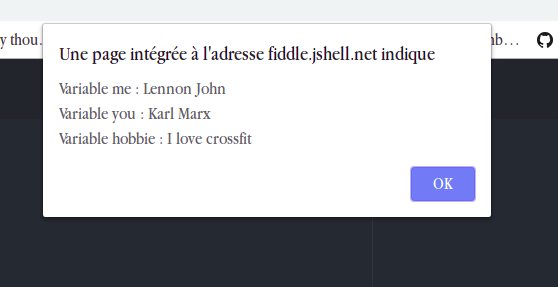
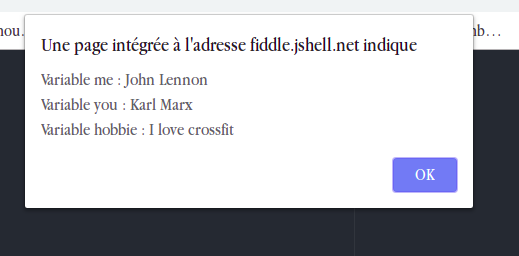
hightlight variable on code

Changed region(s): [[0.0, 0.0625, 1.0, 0.8125], [0.0617, 0.0312, 0.894, 0.0938]]

diff --git a/_sass/_variables.scss b/_sass/_variables.scss
@@ -36,6 +36,7 @@ $header-bg: white !default;
 $header-fg: #2B2B2B !default;
 
 // Colors
+$white: #fff !default;
 $blue: #0076df !default;
 $red: #f95020 !default;
 $green: #459069 !default;
@@ -99,13 +100,13 @@ $form-field-padding-x: .5rem;
 $pre-border-radius: 0;
 $pre-background-color: #fafafa;
 $hljs-comment: $mid-gray;
-$hljs-keyword: $dark-blue;
-$hljs-name: $dark-gray;
-$hljs-number: $dark-green;
-$hljs-string: $red;
+$hljs-keyword: $green;
+$hljs-name: $purple;
+$hljs-number: $blue;
+$hljs-string: $white;
 $hljs-title: $red;
 $hljs-type: $dark-blue;
-$hljs-tag: $dark-blue;
+$hljs-tag: $orange;
 $hljs-attribute: $dark-green;
 $hljs-regexp: $dark-green;
 $hljs-symbol: $purple;

diff --git a/_layouts/post.html b/_layouts/post.html
@@ -31,7 +31,10 @@ p .reversefootnote:hover, p .reversefootnote:active, p .reversefootnote:focus {
   box-shadow: none;
 }
 .highlight {
-  background-color: #cccc;
+  background-color: #252525;
+  box-shadow: 0 0 15px rgba(0,0,0,0.3);
+  border-radius: 5px;
+}
 </style>
 <div class="clearfix"></div>
 

diff --git a/_posts/2019-07-04-javascript-2.md b/_posts/2019-07-04-javascript-2.md
@@ -7,22 +7,20 @@ categories: Developper skills
 mathjax: true
 ---
 ![javascript](/images/javascript.jpg)
->Ce tutoriel est accessible à tous et pourra être bénéfique à chacun, que vous n'ayez jamais codé ou si vous ètes un expert, cela va vous permettre de révisé les bases.
+>Dans cette deuxième partie nous allons voir: **La concaténation, la présentation des conditions,les conditions if, if…else, if…else if…else, les opérateurs logiques,l'évaluation / Simplification des conditions,les  onditions ternaires, le switch, les boucles et enfin la découverte des fonctions.**
 
 ##  La concaténation : définition et exemples
 
-Concaténer signifie tout simplement mettre bout à bout deux chaînes de caractères afin d’en former une troisième, nouvelle.
+Concaténer signifie tout simplement *mettre bout à bout deux chaînes de caractères afin d’en former une troisième, nouvelle.*
 
 
-Concaténer, c’est donc « additionner » des chaînes de caractères.
-
-En JavaScript, on va pouvoir concaténer grâce à l’opérateur « + ».
+>Concaténer, c’est donc « additionner » des chaînes de caractères et en JavaScript, on va pouvoir concaténer grâce à l’opérateur « + ».
 
 Evidemment, nous allons pouvoir appliquer cet opérateur directement à nos variables afin de concaténer leurs contenus respectifs.
 
 ```javascript
 //La variable espace stocke... un espace
-        var lastName = 'Lennon', space = ' ', firstName = 'John';
+        var lastName = 'John', space = ' ', firstName = 'Lennon';
 
         /*On peut concaténer et stocker le résultat dans
          *une nouvelle variable*/
@@ -44,19 +42,21 @@ Evidemment, nous allons pouvoir appliquer cet opérateur directement à nos vari
 
 ![alert](/images/concatenation.png)
 
-Ici, nous avons utilisé la concaténation pour « additionner » les valeurs contenues dans `lastName`, `space` et dans `name`. Nous avons ensuite stocké le résultat de cette concaténation dans une nouvelle variable `me`.
+### Qu'avons-nous fait ici ?
 
-Ensuite, nous avons fait de même avec la variable toi en concaténant cette fois-ci non plus des variables, mais directement des valeurs entre elles.
+* Nous avons utilisé la concaténation pour « additionner » les valeurs contenues dans `lastName`, `space` et dans `name`. Nous avons ensuite stocké le résultat de cette concaténation dans une nouvelle variable `me`.
+* Ensuite, nous avons fait de même avec la variable `me` en concaténant cette fois-ci non plus des variables, mais directement des valeurs entre elles.
+* Finalement, nous avons concaténé une variable avec une valeur.
 
-Finalement, nous avons concaténé une variable avec une valeur. A noter évidemment qu’on ne concatène jamais véritablement des variables (c’est un abus de langage), mais seulement les valeurs contenues dans ces variables.
+>A noter évidemment qu’on **ne concatène jamais véritablement des variables (c’est un abus de langage), mais seulement les valeurs contenues dans ces variables.**
 
-Finalement, nous avons utilisé la concaténation pour afficher le contenu de toutes nos variables d’un coup au sein d’un même alert().
+* Et enfin, nous avons utilisé la concaténation pour afficher le contenu de toutes nos variables d’un coup au sein d’un même `alert()`.
 
->La seule chose à laquelle vous devez faire attention ici est l’utilisation des apostrophes / guillemets : on ne s’en sert que pour entourer les chaînes de caractères, et non pas pour les variables.
+>La seule chose à laquelle vous devez faire attention ici est **l’utilisation des apostrophes / guillemets : on ne s’en sert que pour entourer les chaînes de caractères, et non pas pour les variables.**
 
 ## Additionner un nombre et une chaîne de caractères
 
-Si l’on tente « d’additionner » un nombre et une chaîne de caractères, tout ce qu’il y a derrière la chaîne de caractères sera également considéré comme une chaine de caractères par le JavaScript.
+Si l’on tente « d’additionner » un nombre et une chaîne de caractères, *tout ce qu’il y a derrière la chaîne de caractères sera également considéré comme une chaine de caractères par le JavaScript.*
 
 ```javascript
             var x = 4 + 2 + "1";
@@ -70,27 +70,24 @@ Si l’on tente « d’additionner » un nombre et une chaîne de caractères, t
 ````
 ![alert](/images/concatenation2.png)
 
-Ici, pour notre variable `x`, le JavaScript va commencer par additionner 2 et 4 naturellement, puis va ajouter la chaîne de caractères « 1 » au résultat (c’est-à-dire à 6). Cela donne donc le résultat « 61 ».
+* Ici, pour notre variable `x`, le JavaScript va commencer par additionner `2 et 4` naturellement, puis va ajouter la chaîne de caractères « 1 » au résultat (c’est-à-dire à 6). Cela donne donc le résultat « 61 ».
 
-Dans le second cas, le JavaScript va considérer tout ce qui se trouve derrière la chaîne de caractères « 1 » comme une chaîne de caractères, et va donc concaténer 1, 2 et 4 pour donner « 124 ».
+* Dans le second cas, le JavaScript va considérer tout ce qui se trouve derrière la chaîne de caractères « 1 » comme une chaîne de caractères, et va donc concaténer 1, 2 et 4 pour donner « 124 ».
 
 On peut également observer plus clairement cela avec notre troisième variable `z`, qui va stocker « 2un4 ».
 
 ## Découverte des conditions en JavaScript
 En JavaScript, nous allons souvent vouloir effectuer différentes actions selon la valeur d’un paramètre, afin de dynamiser notre site et d’y ajouter une certaine interaction.
 
-*Par exemple, on va vouloir afficher le message « Bonjour » si il est moins de 18h ou « Bonsoir » dans le cas contraire, ou encore afficher le message « Bonjour john » si votre visiteur à indiqué au préalable qu’il s’appelait John.*
+>*Par exemple, on va vouloir afficher le message « Bonjour » si il est moins de 18h ou « Bonsoir » dans le cas contraire, ou encore afficher le message « Bonjour john » si votre visiteur à indiqué au préalable qu’il s’appelait John.*
 
 Une façon simple de faire cela est d’utiliser les conditions.
 
-Les conditions vont s’articuler autour d’un test. Généralement, nous allons comparer la valeur contenue dans une variable à une certaine autre valeur.
+Les conditions vont s’articuler autour d’un **test**. Généralement, nous allons comparer la valeur contenue dans une variable à une certaine autre valeur.
 
 Selon le résultat du test, nous allons ensuite pouvoir exécuter un bloc de code plutôt qu’un autre à l’intérieur de notre condition.
 
-Les opérateurs de comparaison
-Pour effectuer des comparaiosns à l’intérieur d’une condition, nous allons avoir besoin d’opérateurs de comparaison.
-
-Ces opérateurs sont représentés par les symboles suivants :
+Pour effectuer des comparaisons à l’intérieur d’une condition, nous allons avoir besoin d’opérateurs de comparaison qui sont les suivants:
 
 ### Symbole Signification
 
@@ -124,7 +121,7 @@ A chaque fois que l’on va comparer deux valeurs, le JavaScript va renvoyer *un
 
 Par exemple, si l’on écrit en JavaScript « 7 < 14 », le JavaScript renverra « true » car 7 est bien inférieur à 14.
 
-Dans nos conditions, nous n’allons donc pas directement tester si une valeur est *inférieure*, égale ou *supérieure* à une autre, mais tester si le JavaScript nous renvoie *true* ou *false*.
+>Dans nos conditions, nous n’allons donc pas directement tester si une valeur est **inférieure**, égale ou **supérieure** à une autre, mais tester si le JavaScript nous renvoie *true* ou *false*.
 
 **C’est une distinction très importante que malheureusement très peu de développeurs font ou comprennent.**
 
@@ -176,6 +173,12 @@ Dans le code ci-dessus, nous comparons des valeurs entre elles. A la suite de ch
 On stocke le résultat renvoyé par le JavaScript dans une variable pour chaque comparaison puis on affiche tout cela grâce à une instruction `alert()`.
 
 Maintenant que vous savez véritablement comment fonctionne le JavaScript avec les opérateurs de comparaisons, nous allons pouvoir aborder sereinement les conditions en soi.
+
+## La condition if
+« If » en anglais signifie « si ». Avec cette première structure conditionnelle, on va pouvoir tester si une valeur répond à un certain critère, et exécuter un bloc de code le cas échéant.
+
+Par exemple, on peut choisir d’afficher le message « Bonjour » si une variable heure stocke une valeur inférieure à 18.
+
 
 
 
